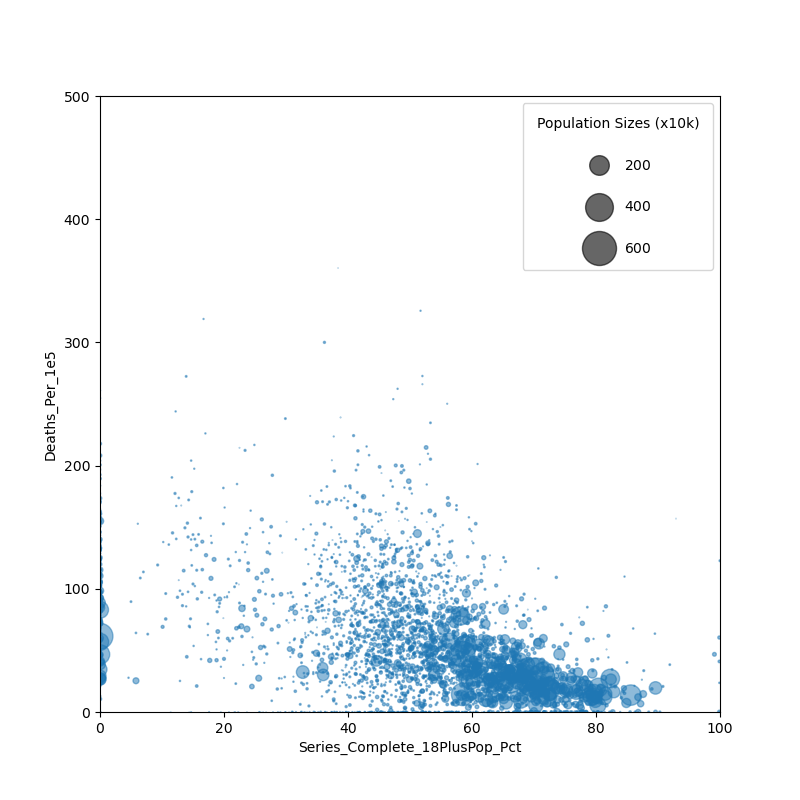
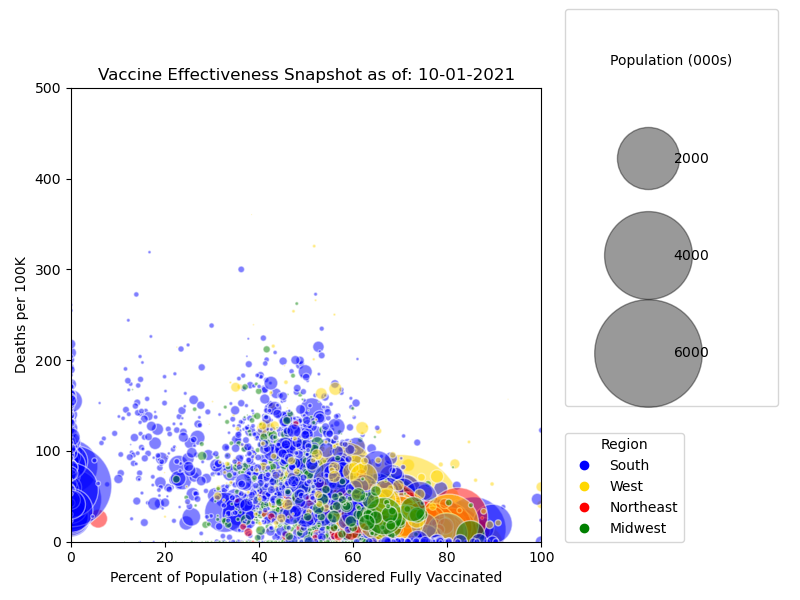
updating code with Matt's revisions

diff --git a/src/test.py b/src/test.py
@@ -6,6 +6,7 @@
 import pandas as pd
 import matplotlib.pyplot as plt
 
+
 def scatter(month):
     df = pd.read_csv('data/vaccinations-and-deaths-'+month+'.csv', converters={'FIPS' : str})
     df['Deaths_Per_1e5'] = df['Deaths'] / df['Census2019_18PlusPop'] * 1e5
@@ -18,28 +19,33 @@ def scatter(month):
     area = df['Census2019_18PlusPop'] / 1e4     #size of bubble = # of 10Ks in county)
 
     fig, ax = plt.subplots()
-    ax.set_xlabel("Percent of Population Considered Fully Vaccinated")
+    ax.set_xlabel("Percent of Population (+18) Considered Fully Vaccinated")
     ax.set_ylabel("Deaths per 100K")
     ax.set_xlim(0,100)
     ax.set_ylim(0,500)
-    ax.set_title("Snapshot as of: "+ month)
-    fig.set_size_inches(6,6)
+    ax.set_title("Vaccine Effectiveness Snapshot as of: "+ month)
+    fig.set_size_inches(8,6)
 
-    scatter = ax.scatter(x, y, s=area, alpha=0.5)
-
-    # produce a legend with a cross section of sizes from the scatter
-    #handles, labels = scatter.legend_elements(prop="sizes", alpha=0.5, num=4)
-    #ax.legend(handles, labels, loc="upper right", title="Population Sizes", labelspacing=2, borderpad=1); 
+    #[MR] Added color dictionary by region
+    colors = {'AL':'blue','AK':'gold','AZ':'gold','AR':'blue','CA':'gold','CO':'gold','CT':'red','DE':'blue','DC':'blue','FL':'blue','GA':'blue','HI':'gold','ID':'gold','IL':'green','IN':'green','IA':'green','KS':'green','KY':'blue','LA':'blue','ME':'red','MD':'blue','MA':'red','MI':'green','MN':'green','MS':'blue','MO':'green','MT':'gold','NE':'green','NV':'gold','NH':'red','NJ':'red','NM':'gold','NY':'red','NC':'blue','ND':'green','OH':'green','OK':'blue','OR':'gold','PA':'red','RI':'red','SC':'blue','SD':'green','TN':'blue','TX':'blue','UT':'gold','VT':'red','VA':'blue','WA':'gold','WV':'blue','WI':'green','WY':'gold','PR':'blue'}
+    #[MR] Added region dictionary to align color legend
+    regions = {'South':'blue','West':'gold','Northeast':'red','Midwest':'green'}
     
-    leg = dict(prop='sizes', num=4, fmt = '{x:0f}00,000', func=lambda s: x/100)
-    legend1 = ax.legend(*scatter.legend_elements(**leg), loc="upper right", title = "Population Size")
+    #[MR] Added color to reflect region based on state
+    scatter = ax.scatter(x, y, s=area, alpha=0.5,c=df['Recip_State'].map(colors), edgecolor='white')
 
-    ##
-    #kw = dict(prop="sizes", num=5,color=scatter.cmap(0.7), fmt="$ {x:.2f}", func=lambda s: np.sqrt(s/.3)/3)
-    #legend2 = ax.legend(*scatter.legend_elements(**kw),loc="lower right", title="Price")
-    ##
+    #[MR] Creates fake line to use index for second legend
+    markers = [plt.Line2D([0,0],[0,0],color=color, marker='o', linestyle='') for color in regions.values()]
+    leg = plt.legend(markers, regions.keys(), numpoints=1, loc=(1.05,0), title="Region")
+    ax.add_artist(leg)
 
+    #[MR] Creates population legend
+    handles, labels = scatter.legend_elements(prop="sizes", num=4, alpha=0.4)
+    plt.legend(handles, labels, loc=(1.05,0.3), title="Population (0000s)", labelspacing=6, borderpad=3.25)
+    
+    plt.tight_layout()
     plt.savefig('test_img/'+month+'.png')
+
     plt.show()
 
-scatter('10-01-2021')
+scatter('11-30-2021')

diff --git a/src/scatters.py b/src/scatters.py
@@ -2,22 +2,6 @@
 #DS5010 Spring 2022
 #scatters.py -- uses dataframes to create a series of scatter plots
 
-# from months.june import *
-# from months.july import *
-# from months.august import *
-# from months.september import *
-# from months.october import *
-# from months.november import *
-# from months.nov30 import *
-
-# june()
-# july()
-# august()
-# september()
-# october()
-# november()
-# nov30()
-
 import pandas as pd
 import matplotlib.pyplot as plt
 
@@ -30,21 +14,36 @@ def scatter(month):
 
     x = df[xlabel]
     y = df[ylabel]
-    area = df['Census2019_18PlusPop'] / 1e4
+    area = df['Census2019_18PlusPop'] / 1e3     #size of bubble = # of 10Ks in county)
 
     fig, ax = plt.subplots()
-    ax.set_xlabel(xlabel)
-    ax.set_ylabel(ylabel)
+    ax.set_xlabel("Percent of Population (+18) Considered Fully Vaccinated")
+    ax.set_ylabel("Deaths per 100K")
     ax.set_xlim(0,100)
     ax.set_ylim(0,500)
-    fig.set_size_inches(8,8)
+    ax.set_title("Vaccine Effectiveness Snapshot as of: "+ month)
+    fig.set_size_inches(8,6)
 
-    scatter = ax.scatter(x, y, s=area, alpha=0.5)
+    #[MR] Added color dictionary by region
+    colors = {'AL':'blue','AK':'gold','AZ':'gold','AR':'blue','CA':'gold','CO':'gold','CT':'red','DE':'blue','DC':'blue','FL':'blue','GA':'blue','HI':'gold','ID':'gold','IL':'green','IN':'green','IA':'green','KS':'green','KY':'blue','LA':'blue','ME':'red','MD':'blue','MA':'red','MI':'green','MN':'green','MS':'blue','MO':'green','MT':'gold','NE':'green','NV':'gold','NH':'red','NJ':'red','NM':'gold','NY':'red','NC':'blue','ND':'green','OH':'green','OK':'blue','OR':'gold','PA':'red','RI':'red','SC':'blue','SD':'green','TN':'blue','TX':'blue','UT':'gold','VT':'red','VA':'blue','WA':'gold','WV':'blue','WI':'green','WY':'gold','PR':'blue'}
+    #[MR] Added region dictionary to align color legend
+    regions = {'South':'blue','West':'gold','Northeast':'red','Midwest':'green'}
+    
+    #[MR] Added color to reflect region based on state
+    scatter = ax.scatter(x, y, s=area, alpha=0.5,c=df['Recip_State'].map(colors), edgecolor='white')
 
-    # produce a legend with a cross section of sizes from the scatter
-    handles, labels = scatter.legend_elements(prop="sizes", alpha=0.6, num=4)
-    ax.legend(handles, labels, loc="upper right", title="Population Sizes (x10k)", labelspacing=2, borderpad=1); 
+    #[MR] Creates fake line to use index for second legend
+    markers = [plt.Line2D([0,0],[0,0],color=color, marker='o', linestyle='') for color in regions.values()]
+    leg = plt.legend(markers, regions.keys(), numpoints=1, loc=(1.05,0), title="Region")
+    ax.add_artist(leg)
+
+    #[MR] Creates population legend
+    handles, labels = scatter.legend_elements(prop="sizes", num=4, alpha=0.4)
+    plt.legend(handles, labels, loc=(1.05,0.3), title="Population (000s)", labelspacing=6, borderpad=3.25)
+    
+    plt.tight_layout()
     plt.savefig('img/'+month+'.png')
+    
 
 scatter('06-01-2021')
 scatter('07-01-2021')
